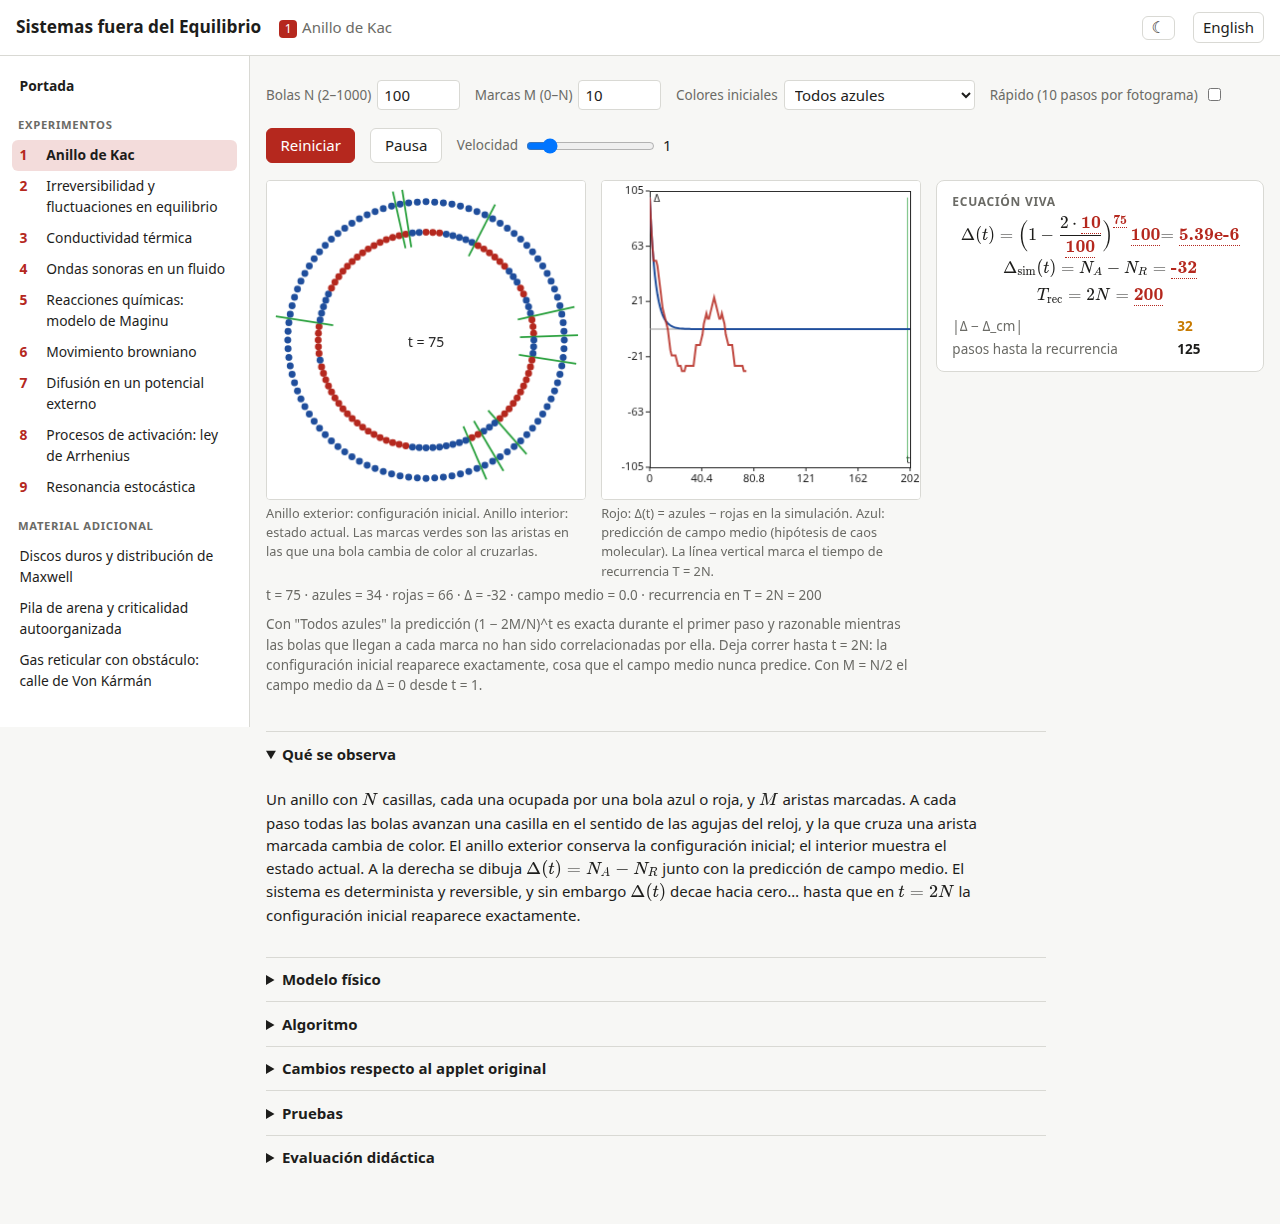
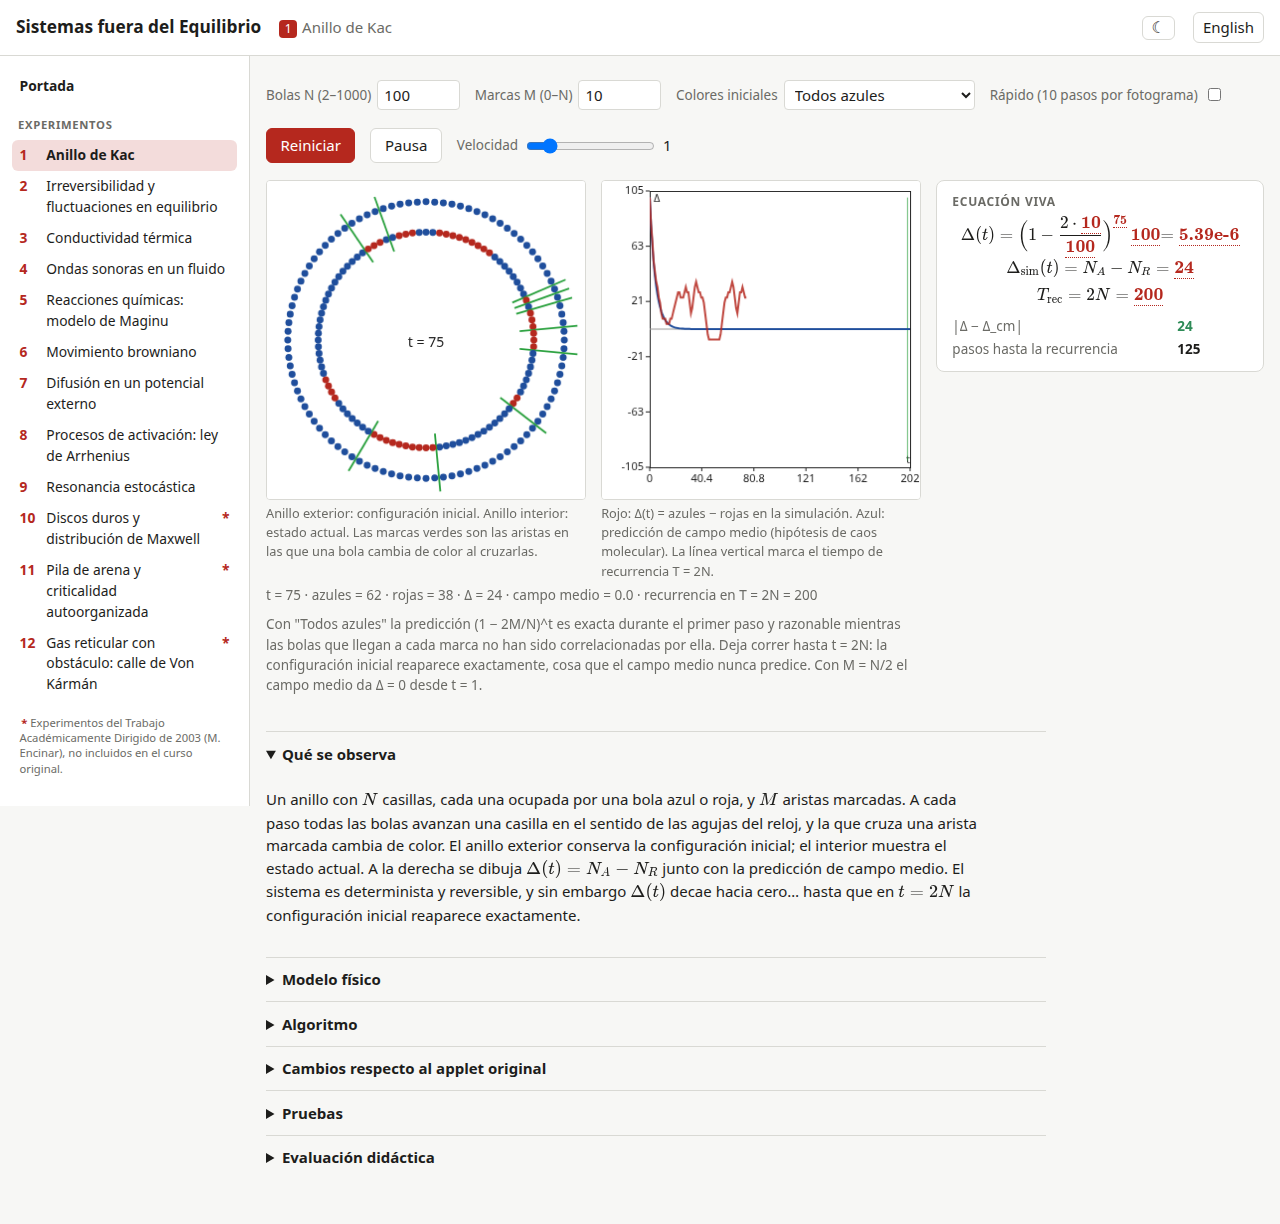
Sidebar: TAD experiments listed as 10-12 with an asterisk and legend instead of a separate section

diff --git a/lib/shell.js b/lib/shell.js
@@ -34,10 +34,11 @@ export function createShell({ root = '.', registry } = {}) {
 
   // Sidebar lists.
   const list = (items) => items.map((r) =>
-    `<li><a href="#/${r.slug}" data-slug="${r.slug}">${r.number != null ? `<span class="num">${r.number}</span>` : ''}<span data-i18n="${r.titleKey}">${i18n.t(r.titleKey)}</span></a></li>`).join('');
+    `<li><a href="#/${r.slug}" data-slug="${r.slug}"${r.tad ? ` title="${i18n.t('course.tadNote')}"` : ''}>${r.number != null ? `<span class="num">${r.number}</span>` : ''}<span data-i18n="${r.titleKey}">${i18n.t(r.titleKey)}</span>${r.tad ? '<span class="tad">*</span>' : ''}</a></li>`).join('');
   sidebar.innerHTML = `<a class="home" href="#/" data-i18n="course.home">${i18n.t('course.home')}</a>
     <h2 data-i18n="course.section">${i18n.t('course.section')}</h2><ol>${list(reg.experiments())}</ol>
-    ${reg.extras().length ? `<h2 data-i18n="course.extras">${i18n.t('course.extras')}</h2><ul>${list(reg.extras())}</ul>` : ''}`;
+    ${reg.extras().length ? `<h2 data-i18n="course.extras">${i18n.t('course.extras')}</h2><ul>${list(reg.extras())}</ul>` : ''}
+    ${reg.experiments().some((r) => r.tad) ? `<p class="tad-legend"><span class="tad">*</span> <span data-i18n="course.tadLegend">${i18n.t('course.tadLegend')}</span></p>` : ''}`;
 
   let current = null; // { slug, handle }
   const markActive = (slug) => {
@@ -61,7 +62,7 @@ export function createShell({ root = '.', registry } = {}) {
       return;
     }
     const entry = reg.bySlug(slug);
-    title.innerHTML = `${entry.number != null ? `<span class="num">${entry.number}</span>` : ''}<span>${i18n.t(entry.titleKey)}</span>`;
+    title.innerHTML = `${entry.number != null ? `<span class="num">${entry.number}</span>` : ''}<span>${i18n.t(entry.titleKey)}${entry.tad ? ' <span class="tad">*</span>' : ''}</span>`;
     d.title = `${i18n.t(entry.titleKey)} · ${i18n.t('course.title')}`;
     const mod = await import(new URL(`${root}/${entry.path}`, document.baseURI).href);
     if (current.slug !== slug) return; // navigated away while loading

diff --git a/lib/i18n.js b/lib/i18n.js
@@ -70,6 +70,8 @@ i18n.register({
     'course.home': 'Portada',
     'course.section': 'Experimentos',
     'course.extras': 'Material adicional',
+    'course.tadLegend': 'Experimentos del Trabajo Académicamente Dirigido de 2003 (M. Encinar), no incluidos en el curso original.',
+    'course.tadNote': 'Del TAD de 2003',
     'course.theme': 'Cambiar tema claro/oscuro',
     'course.lead': 'Nueve experimentos interactivos sobre irreversibilidad, fluctuaciones, transporte y movimiento browniano, con la simulación y la ecuación que la gobierna en la misma pantalla.',
     'course.intro': 'Versión actual del bloque <em>Sistemas fuera del Equilibrio</em> del curso <em>Experimentos Interactivos en Sistemas Físicos Complejos</em> (UCM, 2002), reescrita en JavaScript para navegadores modernos. En cada experimento, los valores medidos en la simulación sustituyen a los símbolos de la ecuación en tiempo real y la predicción teórica se dibuja sobre los datos. Elige un experimento en la barra lateral.',
@@ -101,6 +103,8 @@ i18n.register({
     'course.home': 'Home',
     'course.section': 'Experiments',
     'course.extras': 'Additional material',
+    'course.tadLegend': 'Experiments from the 2003 supervised project (TAD, M. Encinar), not part of the original course.',
+    'course.tadNote': 'From the 2003 TAD',
     'course.theme': 'Toggle light/dark theme',
     'course.lead': 'Nine interactive experiments on irreversibility, fluctuations, transport and Brownian motion, with the simulation and its governing equation on the same screen.',
     'course.intro': 'Current version of the <em>Non-equilibrium Systems</em> block of the course <em>Interactive Experiments in Complex Physical Systems</em> (UCM, 2002), rewritten in JavaScript for modern browsers. In every experiment the values measured in the simulation replace the symbols of the equation in real time, and the theoretical prediction is drawn over the data. Pick an experiment in the sidebar.',

diff --git a/lib/registry.js b/lib/registry.js
@@ -23,11 +23,11 @@ export const REGISTRY = [
     title: { es: 'Procesos de activación: ley de Arrhenius', en: 'Activation processes: Arrhenius law' } },
   { slug: 'resonancia', number: 9, titleKey: 'res.title', path: 'applets/resonancia/applet.js',
     title: { es: 'Resonancia estocástica', en: 'Stochastic resonance' } },
-  { slug: 'maxwell', extra: true, titleKey: 'maxwell.title', path: 'applets/maxwell/applet.js',
+  { slug: 'maxwell', number: 10, tad: true, titleKey: 'maxwell.title', path: 'applets/maxwell/applet.js',
     title: { es: 'Discos duros y distribución de Maxwell', en: 'Hard disks and the Maxwell distribution' } },
-  { slug: 'pila-arena', extra: true, titleKey: 'pila.title', path: 'applets/pila-arena/applet.js',
+  { slug: 'pila-arena', number: 11, tad: true, titleKey: 'pila.title', path: 'applets/pila-arena/applet.js',
     title: { es: 'Pila de arena y criticalidad autoorganizada', en: 'Sandpile and self-organized criticality' } },
-  { slug: 'von-karman', extra: true, titleKey: 'vk.title', path: 'applets/von-karman/applet.js',
+  { slug: 'von-karman', number: 12, tad: true, titleKey: 'vk.title', path: 'applets/von-karman/applet.js',
     title: { es: 'Gas reticular con obstáculo: calle de Von Kármán', en: 'Lattice gas with an obstacle: Von Kármán street' } },
 ];
 

diff --git a/assets/style.css b/assets/style.css
@@ -106,3 +106,5 @@ details.sec .theory { padding: 0.2rem 0 0.6rem; }
 .canvases.stack canvas { aspect-ratio: 3 / 1; }
 .canvases.single { grid-template-columns: 1fr; }
 .toggles button[aria-pressed="true"] { border-color: var(--accent); font-weight: 600; }
+.sidebar .tad, .course-head .tad { color: var(--accent); font-weight: 700; margin-left: 0.15em; }
+.sidebar .tad-legend { font-size: 0.75rem; color: var(--muted); margin: 1rem 0.5rem 0; line-height: 1.35; }

diff --git a/README.md b/README.md
@@ -43,7 +43,11 @@ sin barra lateral. Every experiment also exists as a standalone page to embed, w
 | 7 | `#/potencial` | Difusión en un potencial externo | Diffusion in an external potential | p_i = e^{−V_i/kT}/Z; regla de Metrópolis |
 | 8 | `#/arrhenius` | Procesos de activación: ley de Arrhenius | Activation processes: Arrhenius law | N(t) = N₀e^{−kt}; k de Kramers (red), Arrhenius y la estimación del curso |
 | 9 | `#/resonancia` | Resonancia estocástica | Stochastic resonance | τ_K(kT) = T/2; amplitud de respuesta A_ω; barrido en kT |
-| + | `#/maxwell`, `#/pila-arena`, `#/von-karman` | Material adicional del TAD de 2003 | Additional material from the 2003 TAD | Maxwell 2D y χ²; P(s) ∝ s^{−τ}; Re = g u L/ν |
+| 10* | `#/maxwell` | Discos duros y distribución de Maxwell | Hard disks and the Maxwell distribution | f(v) Maxwell 2D con kT medido; χ²/dof |
+| 11* | `#/pila-arena` | Pila de arena y criticalidad autoorganizada | Sandpile and self-organized criticality | P(s) ∝ s^{−τ}, τ ajustado (Oslo: 1.55) |
+| 12* | `#/von-karman` | Gas reticular con obstáculo: calle de Von Kármán | Lattice gas with an obstacle: Von Kármán street | Re = g(f) u L/ν, Mach |
+
+\* Experimentos del TAD de 2003, no incluidos en el curso original. / Experiments from the 2003 TAD, not in the original course.
 
 Las páginas `applets/onda-lgca`, `applets/modos-lineales` y `applets/fluctuaciones` siguen
 existiendo como applets independientes; el curso las incrusta dentro de los experimentos 4 y 2.
